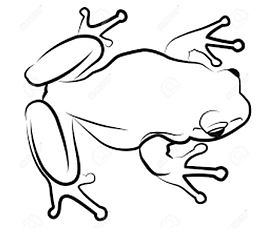
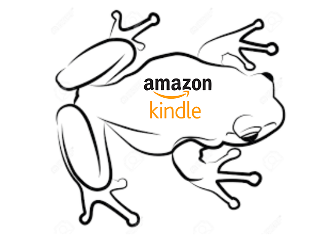
Re style

Changed region(s): [[0.0886, 0.03, 0.9446, 0.9614], [0.4133, 0.3004, 0.6494, 0.5107], [0.1771, 0.2704, 0.2066, 0.3004]]

diff --git a/sass/fm_style.scss b/sass/fm_style.scss
@@ -3,11 +3,18 @@
 $white: #f0f0f0;
 $yellow: #ffeaba;
 $blue: #8bdaf0;
+$text-blue: #1585a4;
 
 body {
   background: $white;
   font-family: Serif;
   text-align: justify;
+}
+
+.hide-visually {
+  position: absolute !important;
+  clip: rect(1px 1px 1px 1px); /* IE6, IE7 */
+  clip: rect(1px, 1px, 1px, 1px);
 }
 
 .wrapper-navbar {
@@ -34,15 +41,26 @@ body {
   }
 }
 
+.twitter {
+  background: url('../images/social-sprite.png') #4099FF center no-repeat;
+  background-position: 2px -223px;
+  height: 35px;
+  width: 35px;
+  display: block;
+  border-radius: 10px;
+  top: 20px;
+  position: absolute;
+}
+
 .wpcf7 input[type="submit"],
 .btn-secondary,
 a {
-  color: darken($blue, 20);
+  color: $text-blue;
   &:hover {
-    color: $blue;
+    color: lighten($text-blue, 20);
   }
   &:visited {
-    color: darken($blue, 20);
+    color: $text-blue;
   }
 }
 
@@ -68,9 +86,14 @@ div.wpcf7-mail-sent-ok {
   border-radius: 2px;
 }
 
-h1, h2, h3 {
+h1, h2, h3, #categories-2 li {
   font-family: 'Amatic SC', sans-serif;
   font-weight: 700;
+  text-align: left;
+}
+
+#categories-2 li {
+  font-size: 1.6em;
 }
 
 iframe {
@@ -100,11 +123,16 @@ iframe {
   }
   .kindle {
     background: url('../images/frog.png') center no-repeat;
-    padding: 100px 0 130px 0;
+    a {
+      display: block;
+      height: 225px;
+      width: 250px;
+    }
   }
   ul {
     list-style: none;
     text-align: left;
+    padding: 0;
     li {
       padding: 0 0 10px 0;
     }

diff --git a/header.php b/header.php
@@ -65,7 +65,7 @@ $container = get_theme_mod( 'understrap_container_type' );
 						'walker'          => new WP_Bootstrap_Navwalker(),
 					)
 				); ?>
-
+<div><a href="https://twitter.com/fionamordaunt" class="twitter" title="Follow Fiona on Twitter"></a></div>
 			</div><!-- .container -->
 
 		</nav><!-- .site-navigation -->
